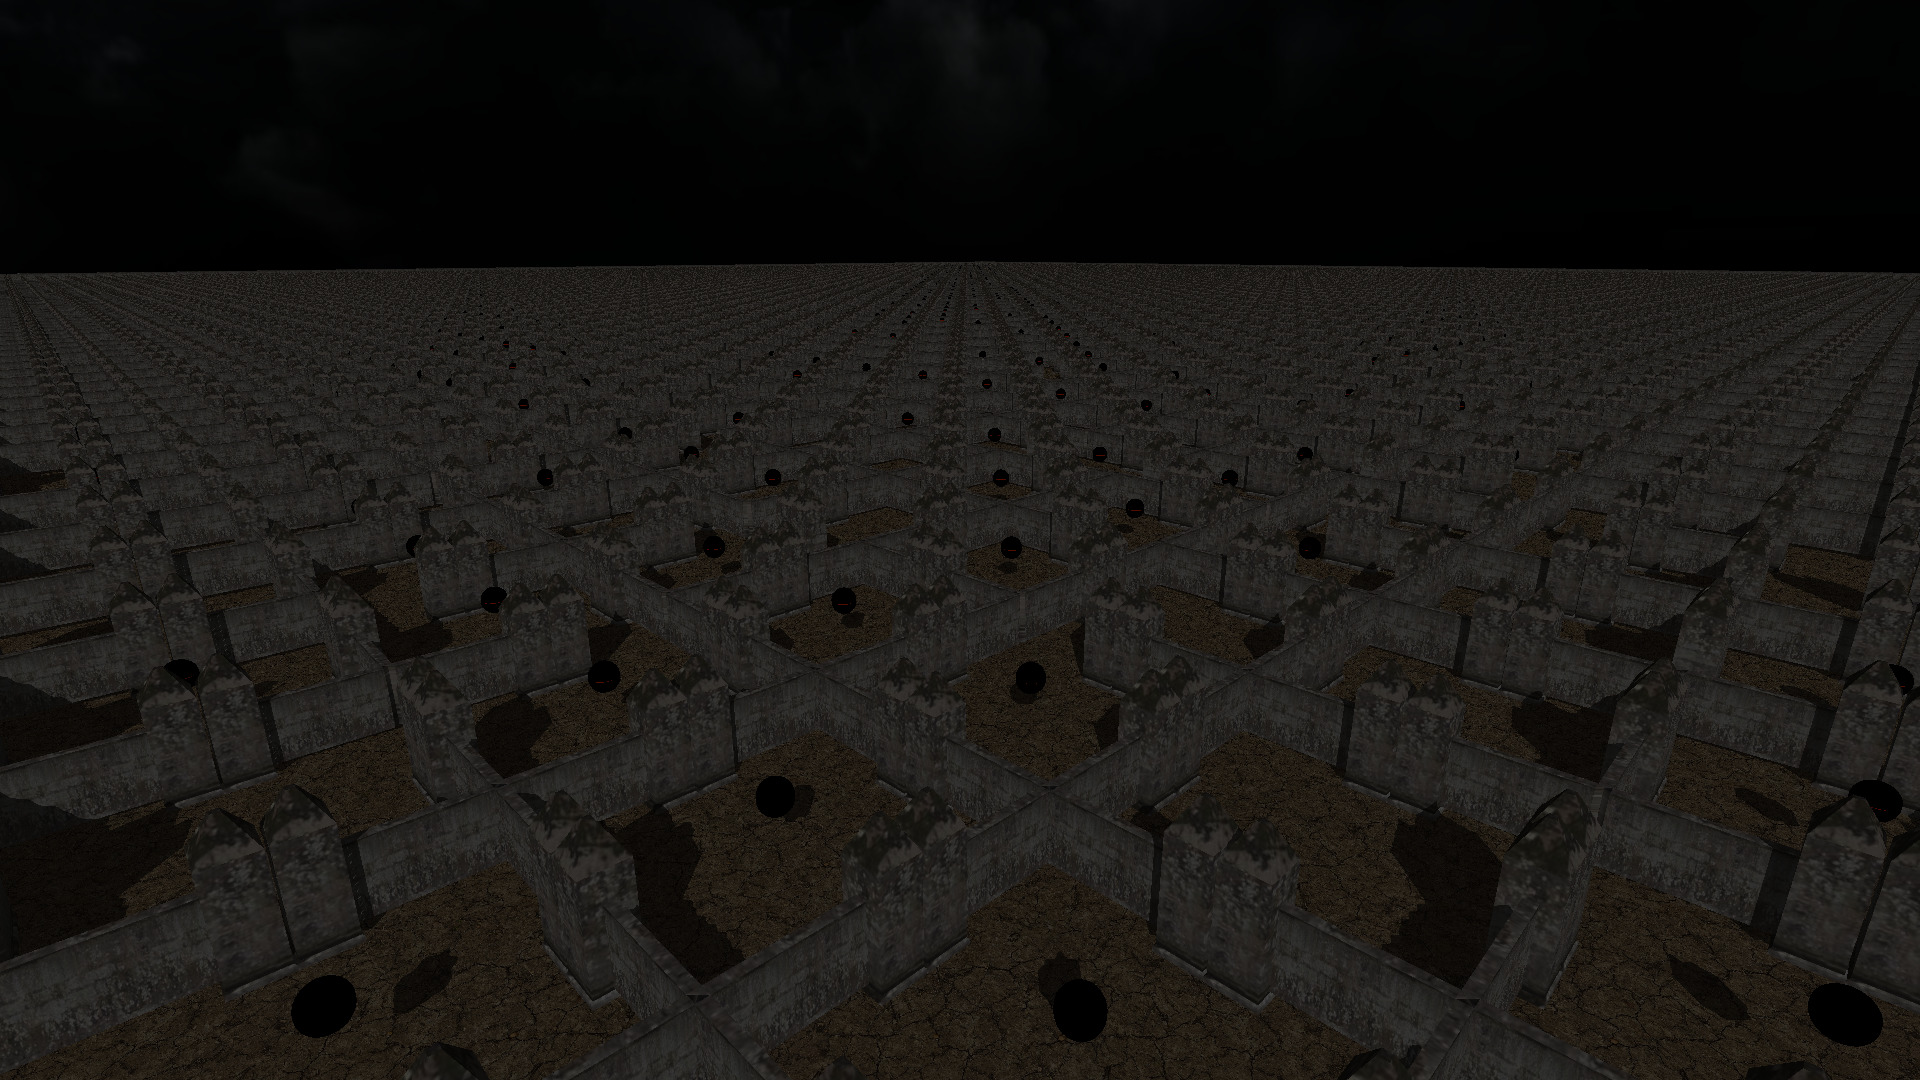
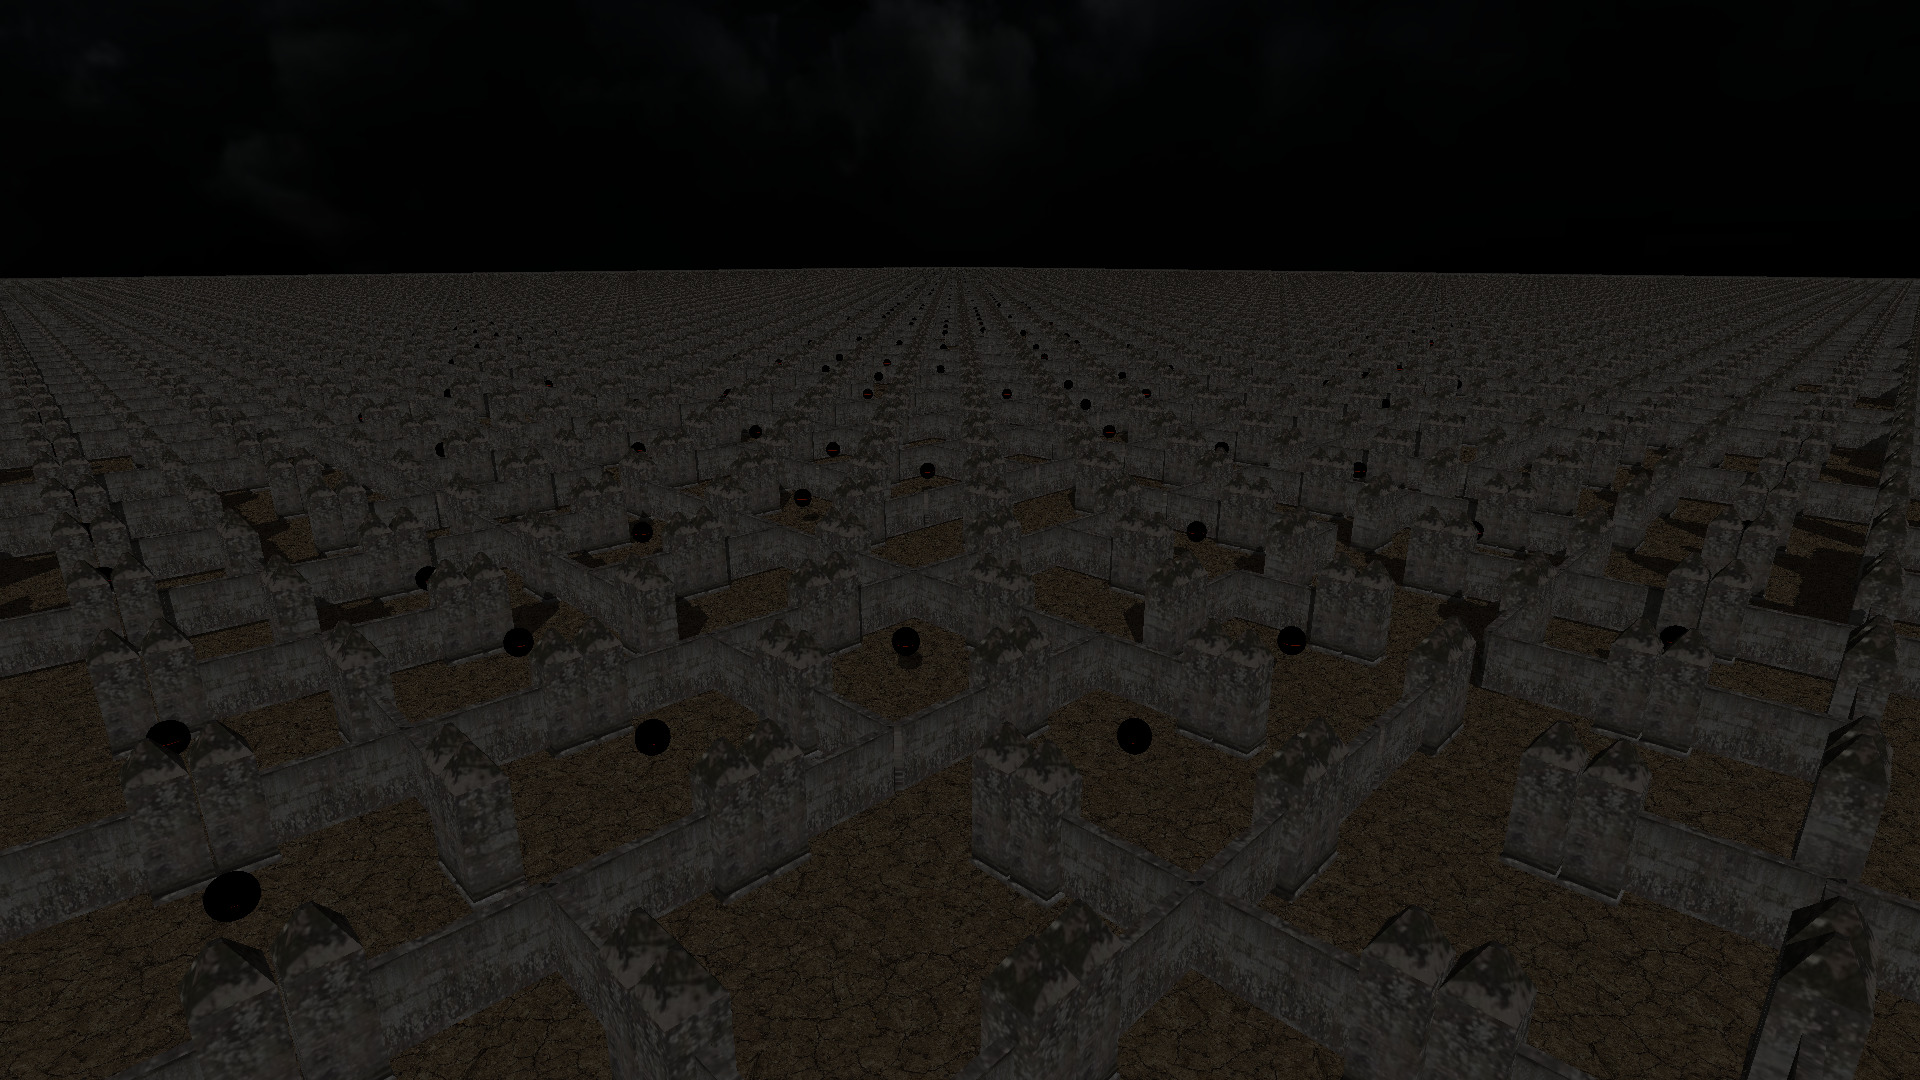
Made the labyrinth less dense.

diff --git a/src/cpp/environment/wall.cpp b/src/cpp/environment/wall.cpp
@@ -12,7 +12,7 @@ Wall::Wall(GameObject *parent, const engine::Transform& initial_transform)
   pillars_bb_ = pillars->GetBoundingBox();
 
   for (int i = 0; i < 4; ++i) {
-    if ((rand() % 10) != 0) {
+    if ((rand() % 4) != 0) {
       wall_parts_[i] = AddComponent<MeshObject>("wall/wall" + std::to_string(i+1) + ".obj", initial_transform);
       wall_parts_[i]->AddComponent<engine::BulletRigidBody>(0.0f, wall_parts_[i]->GetCollisionShape(), engine::kColStatic);
       walls_bb_[i] = wall_parts_[i]->GetBoundingBox();
